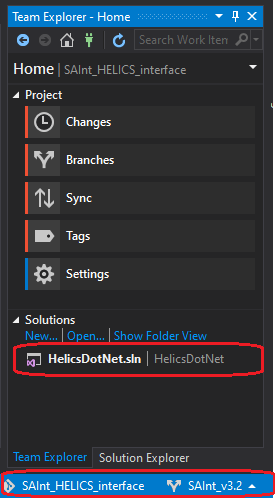
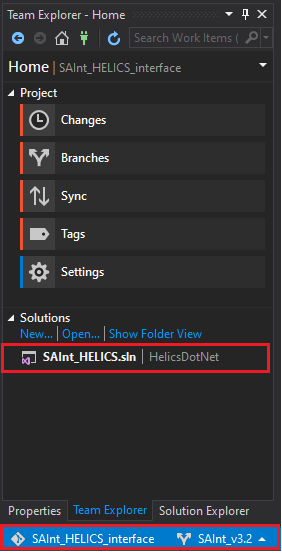
Rename name spaces, minimum iteration

Changed region(s): [[0.0, 0.0, 0.96, 0.9036], [0.0, 0.0, 1.0, 1.0]]

diff --git a/HelicsDotNet/GasFederate/GasFederate.cs b/HelicsDotNet/GasFederate/GasFederate.cs
@@ -8,9 +8,9 @@ using SAInt_API.Library;
 using SAInt_API.Model.Network.Fluid.Gas;
 using SAInt_API.Model.Network.Hub;
 
-namespace HelicsDotNetReceiver
+namespace SAIntGasFederate
 {
-    class Program
+    class GasFederate
     {
         public static GasNet GNET { get; set; }
         public static HubSystem HUB { get; set; }
@@ -116,21 +116,21 @@ namespace HelicsDotNetReceiver
             }
             // Set one second message interval
             double period = 1;
-            Console.WriteLine("Electric: Setting Federate Timing");
+            Console.WriteLine("Gas: Setting Federate Timing");
             h.helicsFederateSetTimeProperty(vfed, (int)HelicsProperties.HELICS_PROPERTY_TIME_PERIOD, period);
 
             // check to make sure setting the time property worked
             double period_set = h.helicsFederateGetTimeProperty(vfed, (int)HelicsProperties.HELICS_PROPERTY_TIME_PERIOD);
-            Console.WriteLine($"Time period: {period_set}");
+            Console.WriteLine($"Gas: Time period: {period_set}");
 
             // set number of HELICS time steps based on scenario
             double total_time = GNET.SCE.NN;
-            Console.WriteLine($"Number of time steps in scenario: {total_time}");
+            Console.WriteLine($"Gas: Number of time steps in scenario: {total_time}");
 
             // set max iteration at 20
             h.helicsFederateSetIntegerProperty(vfed, (int)HelicsProperties.HELICS_PROPERTY_INT_MAX_ITERATIONS, 20);
             int Iter_max = h.helicsFederateGetIntegerProperty(vfed, (int)HelicsProperties.HELICS_PROPERTY_INT_MAX_ITERATIONS);
-            Console.WriteLine($"Max iterations per time step: {Iter_max}");
+            Console.WriteLine($"Gas: Max iterations per time step: {Iter_max}");
 
             // Switch to release mode to enable console output to file
 #if !DEBUG
@@ -241,11 +241,11 @@ namespace HelicsDotNetReceiver
                     }
 
                     //Iterative HELICS time request
-                    Console.WriteLine($"\nGas Requested Time: {GNET.SCE.dTime[e.TimeStep]}, iteration: {Iter}");
+                    Console.WriteLine($"\nGas: Requested Time: {GNET.SCE.dTime[e.TimeStep]}, iteration: {Iter}");
 
                     granted_time = h.helicsFederateRequestTimeIterative(vfed, e.TimeStep, iter_flag, out helics_iter_status);
 
-                    Console.WriteLine($"Gas Granted Co-simulation Time Step: {granted_time},  Iteration status: {helics_iter_status}, SolverState: {e.SolverState}");
+                    Console.WriteLine($"Gas: Granted Co-simulation Time Step: {granted_time},  Iteration status: {helics_iter_status}, SolverState: {e.SolverState}");
 
                     if (helics_iter_status == (int)HelicsIterationResult.HELICS_ITERATION_RESULT_NEXT_STEP)
                     {
@@ -341,7 +341,7 @@ namespace HelicsDotNetReceiver
                 Console.WriteLine("Gas: the solution diverged at the following time steps:");
                 foreach (TimeStepInfo x in AllDiverged)
                 { 
-                    Console.WriteLine($"Time \t {x.time} time-step {x.timestep}"); 
+                    Console.WriteLine($"Gas:  Time \t {x.time} time-step {x.timestep}"); 
                 }
                 Console.WriteLine($"Gas: The total number of diverging time steps = { AllDiverged.Count }");
             }

diff --git a/HelicsDotNet/ElectricFederate/ElectricFederate.cs b/HelicsDotNet/ElectricFederate/ElectricFederate.cs
@@ -8,9 +8,9 @@ using SAIntHelicsLib;
 using SAInt_API.Model.Network.Electric;
 using SAInt_API.Model.Network.Hub;
 
-namespace HelicsDotNetSender
+namespace SAIntElectricFederate
 {
-    class Program
+    class ElectricFederate
     {
         public static ElectricNet ENET { get; set; }
         public static HubSystem HUB { get; set; }
@@ -127,16 +127,16 @@ namespace HelicsDotNetSender
 
             // check to make sure setting the time property worked
             double period_set = h.helicsFederateGetTimeProperty(vfed, (int)HelicsProperties.HELICS_PROPERTY_TIME_PERIOD);
-            Console.WriteLine($"Time period: {period_set}");
+            Console.WriteLine($"Electric: Time period: {period_set}");
 
             // set number of HELICS time steps based on scenario
             double total_time = ENET.SCE.NN;
-            Console.WriteLine($"Number of time steps in scenario: {total_time}");
+            Console.WriteLine($"Electric: Number of time steps in scenario: {total_time}");
 
             // set max iteration at 20
             h.helicsFederateSetIntegerProperty(vfed, (int)HelicsProperties.HELICS_PROPERTY_INT_MAX_ITERATIONS, 20);
             int iter_max = h.helicsFederateGetIntegerProperty(vfed, (int)HelicsProperties.HELICS_PROPERTY_INT_MAX_ITERATIONS);
-            Console.WriteLine($"Max iterations per time step: {iter_max}");
+            Console.WriteLine($"Electric: Max iterations per time step: {iter_max}");
 
             // Switch to release mode to enable console output to file 
 #if !DEBUG
@@ -256,11 +256,11 @@ namespace HelicsDotNetSender
                     }
 
                     // Iterative HELICS time request
-                    Console.WriteLine($"\nElectric Requested Time: {ENET.SCE.dTime[e.TimeStep]}, iteration: {Iter}");
+                    Console.WriteLine($"\nElectric: Requested Time: {ENET.SCE.dTime[e.TimeStep]}, iteration: {Iter}");
 
                     granted_time = h.helicsFederateRequestTimeIterative(vfed, e.TimeStep, iter_flag, out helics_iter_status);
                     
-                    Console.WriteLine($"Electric Granted Co-simulation Time Step: {granted_time}, Iteration Status: {helics_iter_status}, SolverState: {e.SolverState}");
+                    Console.WriteLine($"Electric: Granted Co-simulation Time Step: {granted_time}, Iteration Status: {helics_iter_status}, SolverState: {e.SolverState}");
 
                     if (helics_iter_status == (int)HelicsIterationResult.HELICS_ITERATION_RESULT_NEXT_STEP)
                     {
@@ -291,7 +291,7 @@ namespace HelicsDotNetSender
             // request time for end of time + 1: serves as a blocking call until all federates are complete
           
             DateTime DateTimeRequested = ENET.SCE.EndTime.AddSeconds(ENET.SCE.dt);
-            Console.WriteLine($"\nElectric Requested Time Step: {total_time + 1} at Time: {DateTimeRequested}");
+            Console.WriteLine($"\nElectric: Requested Time Step: {total_time + 1} at Time: {DateTimeRequested}");
             h.helicsFederateRequestTime(vfed, total_time + 1);
 
 

diff --git a/HelicsDotNet/SAIntHelicsAPI/MappingFactory.cs b/HelicsDotNet/SAIntHelicsAPI/MappingFactory.cs
@@ -143,7 +143,7 @@ namespace SAIntHelicsLib
         public static double eps = 0.001;
 
         // Iteration to start to curtail FGEN
-        static int CurtailmentIterStart = 2;
+        static int CurtailmentIterStart = 1;
         static int CurtailmentIter;
 
         public static void PublishRequiredThermalPower(int kstep, int Iter, List<ElectricGasMapping> MappingList)

diff --git a/HelicsDotNet/GasElectricBroker/Broker.cs b/HelicsDotNet/GasElectricBroker/Broker.cs
@@ -5,7 +5,7 @@ using System.Diagnostics;
 
 namespace GasElectricBroker
 {
-    class Program
+    class Broker
     {
         static void Main(string[] args)
         {

diff --git a/README.md b/README.md
@@ -49,21 +49,22 @@ This user guide describes the steps for setting up and running the *SAInt_HELICS
    |<b>Figure 3</b>|
    
 #### Loading the visual studio project 
-  1. Double click the *SAInt_HELICS_interface* to open it. It should look like as shown in Figure 4. Make sure that the branch *SAInt_v3.2* is selected. Then you will see the *HelicsDotNet.sln* in the solution section of *Team Explorer*.
+  1. Double click the *SAInt_HELICS_interface* to open it. It should look like as shown in Figure 4. Make sure that the branch *SAInt_v3.2* is selected. Then you will see the *SAInt_HELICS.sln* in the solution section of *Team Explorer*.
 
    |![Figure4](ReadMeImages/Figure4.png)|
    |:--:|
    |<b>Figure 4</b>|
 
-  2. Double click *HelicsDotNet.sln* to open the project in the *Solution Explorer*. Your *Solution Explorer* will look like as shown in Figure 5.
+  2. Double click *SAInt_HELICS.sln* to open the project in the *Solution Explorer*. Your *Solution Explorer* will look like as shown in Figure 5.
   
    |![Figure5](ReadMeImages/Figure5.png)|
    |:--:|
    |<b>Figure 5</b>|
 
-  3. There are five projects embedded in the *HelicsDotNet* project.
+  3. There are five projects embedded in the *SAInt_HELICS* project.
      - *ElectricFederate* loads the electric network, imports the corresponding scenario definitions and run the simulation. Make sure that this project has a reference to *SAInt_Core.dll* which is found in the SAInt installation folder. The default path is: *C:\Program Files\encoord\SAInt-v3-Alpha\SAInt-Core.dll*.
      - *GasFederate* loads the gas network, imports the corresponding scenario definitions and run the simulation. Make sure that this project has a reference to *SAInt_Core.dll* which is found in the SAInt installation folder. The default path is: *C:\Program Files\encoord\SAInt-v3-Alpha\SAInt-Core.dll*.
+     - *GasElectricBroker* creates a brokered environment through which the two federates communicate.
      - *HelicsDotNetAPI* provides the API functionality required for the co-simulation *HELICS* environment.
      - *SAIntHelicsLib* provides the mapping factory for the coupling technologies. It has functions that are used to initialize events, generate publication and subscription ids, receive, process and publish data that is communicated between electric and gas federates. Make sure that this project has a reference to *SAInt_Core.dll* which is found in the SAInt installation folder. The default path is: *C:\Program Files\encoord\SAInt-v3-Alpha\SAInt-Core.dll*.
 
